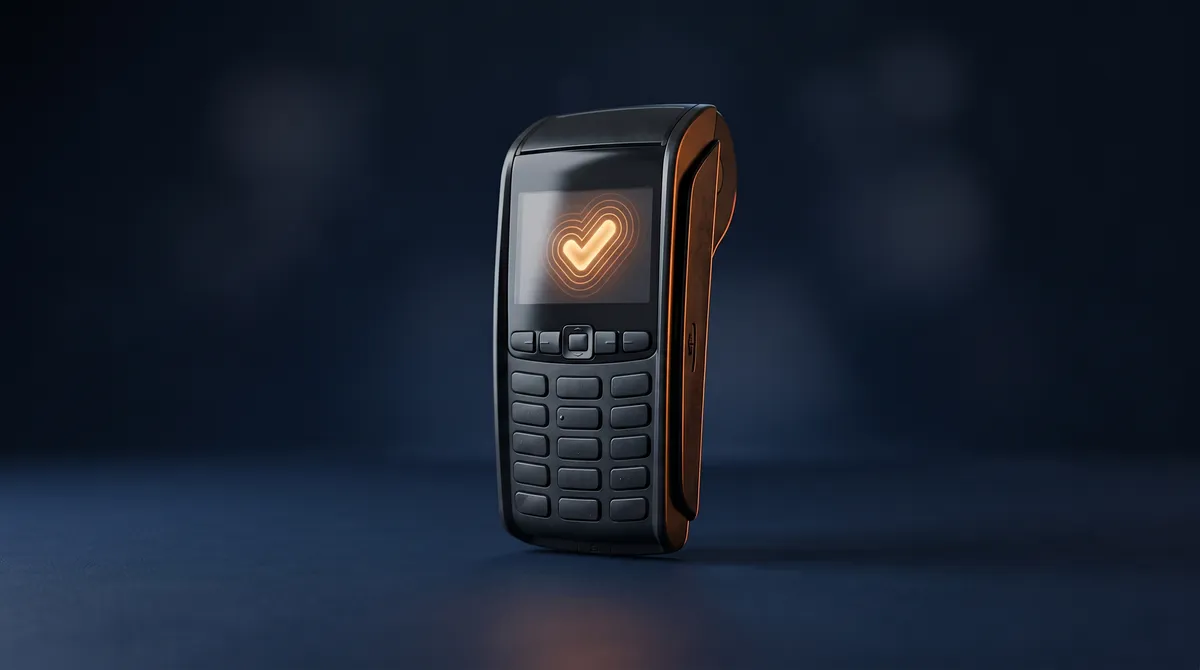
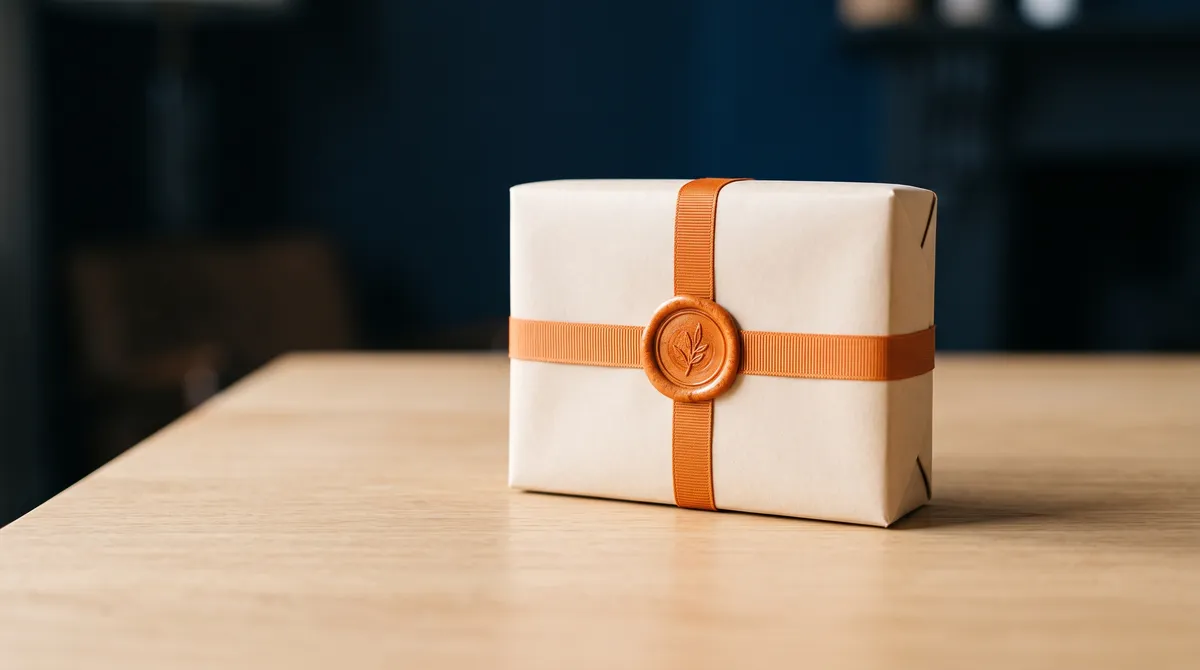
Rework E-Commerce Development hero + section imagery (fresh concept, Sharp-compressed)

diff --git a/lib/services-data.js b/lib/services-data.js
@@ -5130,9 +5130,9 @@ export const serviceCategories = {
         phonePrimary: '+971 50 6828290',
         hero: 'An online store has one job: turn visitors into buyers. We build e-commerce sites that make that easy, with clean product pages, a checkout that does not get in the way, and the back-office tools your team needs to run it day to day.',
         heroImage: '/images/services/ecommerce-development-uae-hero.webp',
-        heroImageAlt: 'Retail checkout counter with a card-payment terminal and parcel in a dark store',
+        heroImageAlt: 'Elevated view over a modern e-commerce fulfilment floor with a conveyor of parcels and one orange-sealed box',
         sectionImage: '/images/services/ecommerce-development-uae-section.webp',
-        sectionImageAlt: 'Card-payment terminal standing on a navy surface',
+        sectionImageAlt: 'A single wrapped parcel sealed with an orange ribbon on a clean surface',
         sectionContent: {
           eyebrow: 'WHAT WE BUILD',
           heading: 'Online Stores Built to Sell',
